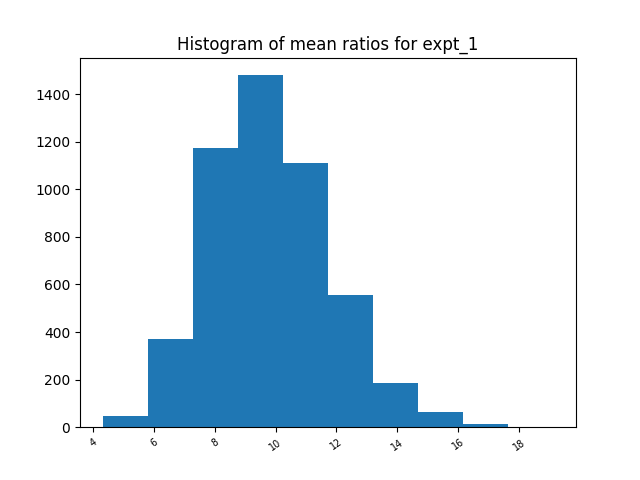
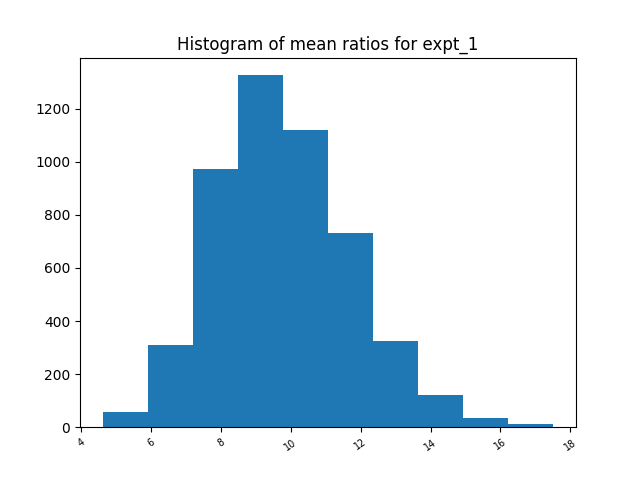
modified:   plots/histogram-prop_1_fair.pdf modified:   plots/perturbed-mean-entropy-hist_1.png modified:   plots/perturbed-mean-entropy-hist_1_fair.png modified:   plots/perturbed-mean-entropy-qqplot_1.png modified:   plots/perturbed-mean-entropy-qqplot_1_fair.png

diff --git a/myapp3/create_plots.py b/myapp3/create_plots.py
@@ -56,7 +56,7 @@ m = test_ratio.shape[0]
 
 
 plt.hist(test_ratio)
-plt.xticks(rotation = 35, fontsize = 'x-small')
+plt.xticks(rotation = 35, fontsize = 'xx-small')
 plt.savefig(f'plots/histogram-prop{expt}.pdf')
 plt.close()
 
